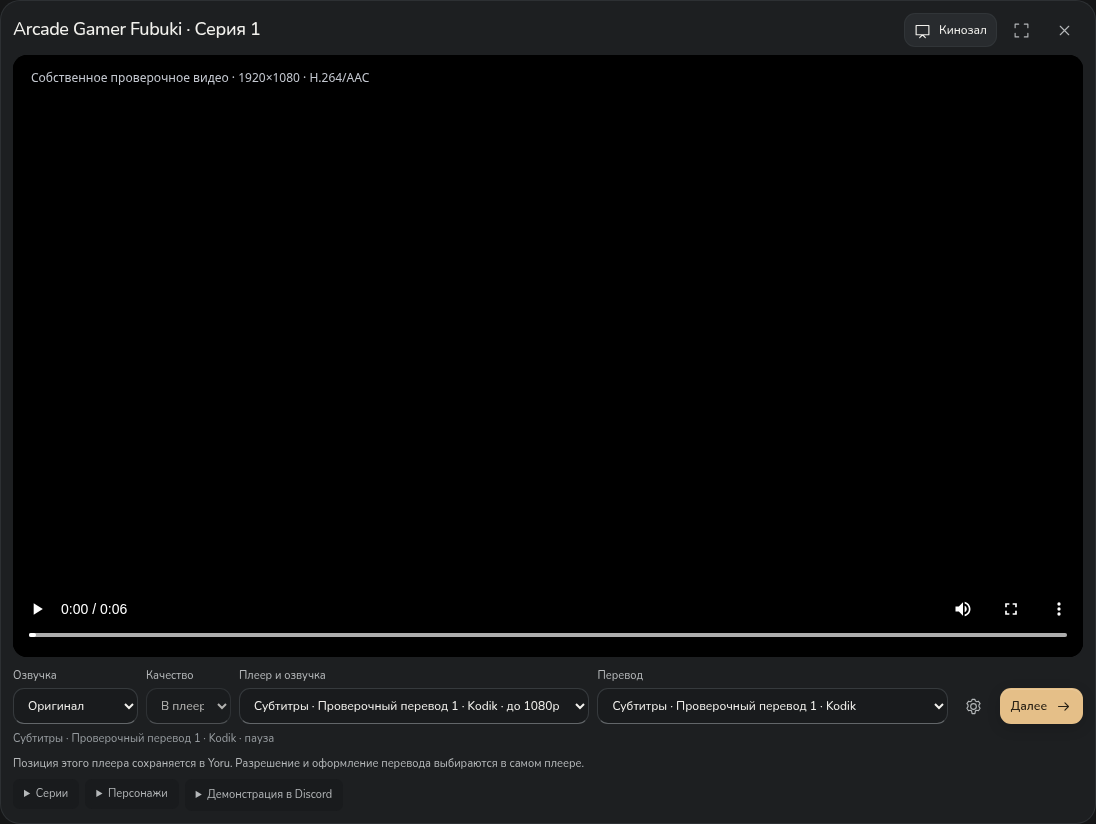
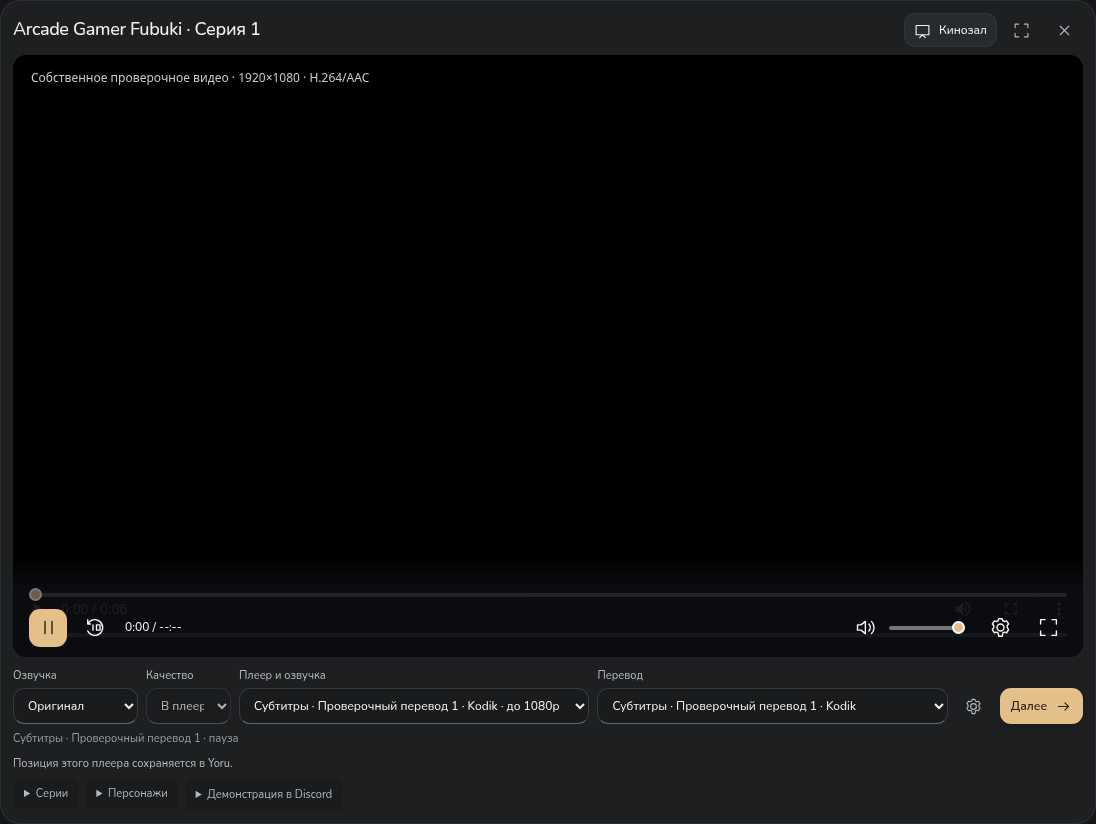
Publish verified Yoru 0.9.4 installer and playback controls gallery [skip ci]

Changed region(s): [[0.0, 0.6978, 0.9617, 0.7888], [0.1861, 0.8799, 0.5274, 0.9405]]

diff --git a/README.md b/README.md
@@ -2,23 +2,33 @@
 
 <img src="public/yoru-icon.png" width="80" height="80" alt="Иконка Yoru">
 
-**Windows 10/11 · x64 · версия 0.9.3**
+**Windows 10/11 · x64 · версия 0.9.4**
 
 Три раздела в одном приложении: **Аниме / Фильмы / Сериалы**. Поиск, жанры, избранное, библиотека, темы и сохранение позиции встроенного просмотра.
 
 Для аниме AniLibria доступен встроенный плеер и автоматический подбор дополнительных озвучек/переводов Yummyani для сопоставленного релиза. Выбранный онлайн-плеер открывается на странице просмотра Yoru. Расширенный каталог Yummyani подгружает следующие страницы при прокрутке и открывает поддерживаемый плеер **внутри Yoru**, с выбором серий, автопереходом и сохранением подтверждённого тайминга. Для фильмов и сериалов доступны каталог метаданных и поиск в **YouTube, Кинопоиске, Rutube, VK Видео** в системном браузере. Это поиск на сервисах: наличие полной версии и региональные ограничения определяет сайт. Подтверждённые прямые файлы Internet Archive можно смотреть внутри приложения с резервными адресами того же файла.
 
-![Оригинал и выбор перевода в Yoru 0.9.3 — собственный тестовый ролик, не живое видео аниме](docs/images/automatic-player.png)
+![Своя панель просмотра Yoru 0.9.4 — собственный тестовый ролик, не живое видео аниме](docs/images/yoru-controls.png)
 
 Новые киносервисы пока **не подтверждены живой проверкой из РФ и других стран**. В этой облачной среде их домены отклоняются прокси; сетевой черновик сохранён и ожидает публикации. Тесты с контролируемыми ответами проверяют приложение, но не заменяют проверку внешнего видео.
 
 ## Установка
 
-**[Скачать установщик Yoru 0.9.3](https://github.com/Duwkaf1/kinoteatr-xivivide/actions/runs/41287024525/artifacts/13076056122)** — около 108 MiB. Извлеки `Yoru-Setup-0.9.3-x64.exe` из ZIP GitHub, закрой прежний Yoru и нажми **«Установить»**. Установщик автономный, на русском, без прав администратора; библиотека и настройки сохраняются. Для загрузки артефакта GitHub нужен вход в аккаунт.
+**[Скачать установщик Yoru 0.9.4](https://github.com/Duwkaf1/kinoteatr-xivivide/actions/runs/41307088205/artifacts/13083668526)** — около 108 MiB. Извлеки `Yoru-Setup-0.9.4-x64.exe` из ZIP GitHub, закрой прежний Yoru и нажми **«Установить»**. Установщик автономный, на русском, без прав администратора; библиотека и настройки сохраняются. Для загрузки артефакта GitHub нужен вход в аккаунт.
 
-[Инструкция](docs/installer.md) · [ZIP без установки](https://github.com/Duwkaf1/kinoteatr-xivivide/actions/runs/41287024525/artifacts/13075833596) · [Успешная Windows-проверка](https://github.com/Duwkaf1/kinoteatr-xivivide/actions/runs/41287024525)
+[Инструкция](docs/installer.md) · [ZIP без установки](https://github.com/Duwkaf1/kinoteatr-xivivide/actions/runs/41307088205/artifacts/13083932627) · [Успешная Windows-проверка](https://github.com/Duwkaf1/kinoteatr-xivivide/actions/runs/41307088205)
 
-## Реклама, оригинал, переводы и персонажи 0.9.3
+## Панель просмотра и персонажи серии 0.9.4
+
+Своя панель Yoru управляет воспроизведением, временем, перемоткой, звуком и полным экраном. У встроенного плеера сайта шестерёнка открывает его настройки качества и перевода; кнопка «Панель Yoru» возвращает управление. В Electron состояние берётся у реального HTML5-видео, в том числе во вложенном iframe без API провайдера. Удалённый плеер не получает Node/IPC, а URL потока и токены не извлекаются.
+
+Зависание не дальше 1,25 секунды до конца после 8 секунд без движения завершает серию. Нужны подтверждённые время и длительность от 30 секунд, а также намерение продолжать просмотр. Ручная пауза блокирует переход; настройка автоследующей серии учитывается. Запоздалые состояния плеера не отменяют нажатие паузы или продолжения. Обычное окончание переключает серию сразу.
+
+«Оригинал» больше не остаётся подписью русского источника после неудачного подбора. Проверяется текущий API Yummyani, второе название и подтверждённые издания того же релиза; поддержаны опубликованные Sibnet и обёртки Yummyani. Адреса не строятся подстановкой одного ID во все сервисы.
+
+У персонажей есть быстрый выбор **«Весь релиз / Эта серия»**. Для TV «Чёрный клевер» (MAL 34572) добавлен отдельный адаптер списка появлений Episode N в Black Clover Wiki. Имена сопоставляются с кастом релиза; ручные отметки подписаны отдельно. Для релизов без подтверждённых появлений предлагается общий каст с явной подписью. Живые ответы Wiki и наличие японских дорожек пока не подтверждены из-за сетевой политики среды. [Подробности и границы проверки](docs/player-chrome-0.9.4.md).
+
+## Озвучка, переводы и реклама
 
 В плеерах включён **офлайн-адблок Ghostery с EasyList/RU AdList/uBlock**: рекламные запросы и всплывающие окна блокируются, IMA/VAST получают локальные совместимые ответы. При запуске не требуется скачивать фильтры. Исходники, ревизии, контрольные суммы и лицензии включены в поставку. [Подробности](docs/player-protection-0.9.3.md) · [Фильтры и лицензии](data/adblock/README.md). Вшитую в сам файл рекламу сетевой блокировщик удалить не может.
 
@@ -28,15 +38,15 @@
 
 [Снимок страницы просмотра](docs/images/automatic-player.png) использует собственный тестовый ролик и контролируемые варианты, не живое видео аниме.
 
-У онлайн-плеера разрешение и оформление субтитров выбираются **в самом плеере**. Yoru показывает «В плеере»; подтверждённое API максимальное разрешение указано в подписи варианта. Встроенные основной/альтернативный движки, прямые видео и оформленные субтитры сохранены. Kodik передаёт подтверждённый тайминг в историю; плеерам без такого интерфейса сохранение времени не приписывается.
+У онлайн-плеера разрешение и оформление субтитров выбираются **в самом плеере**. Yoru показывает «В плеере»; подтверждённое API максимальное разрешение указано в подписи варианта. Встроенные основной/альтернативный движки, прямые видео и оформленные субтитры сохранены. В настольной версии тайминг берётся у реального видео, а Kodik API служит резервом. Если ни видео, ни поддерживаемый API недоступны, управление не объявляется подтверждённым.
 
-Персонажи и фотографии для сопоставленного релиза загружаются из **AniDB автоматически**, без XML и регистрации API-клиента пользователем. Быстрые запросы ждут в очереди. При отказе или изменении разметки AniDB используется **MyAnimeList через Jikan**, затем независимый **AniList**. Проверяются точный MAL ID, каноническое имя и год исходного релиза в индексе. Даты фестивального показа и выпуска могут различаться; это не разрешает подменять спешл телевизионным сезоном. Источник обозначается в интерфейсе; ID персонажей трёх каталогов не смешиваются. Главные роли идут перед второстепенными. Свои имена и заметки сохраняются. Поэпизодное появление каждого персонажа не выдумывается: автоматический список относится к релизу/сезону.
+Персонажи и фотографии для сопоставленного релиза загружаются из **AniDB автоматически**, без XML и регистрации API-клиента пользователем. Быстрые запросы ждут в очереди. При отказе или изменении разметки AniDB используется **MyAnimeList через Jikan**, затем независимый **AniList**. Проверяются точный MAL ID, каноническое имя и год исходного релиза в индексе. Даты фестивального показа и выпуска могут различаться; это не разрешает подменять спешл телевизионным сезоном. Источник обозначается в интерфейсе; ID персонажей трёх каталогов не смешиваются. Главные роли идут перед второстепенными. Свои имена и заметки сохраняются. Общий каст относится к релизу. Режим «Эта серия» использует отдельные подтверждённые появления, каст одноэпизодного релиза либо твои явно подписанные ручные отметки.
 
 ![Автоматически загруженный состав — архив AniDB 128 в контролируемом сценарии, с личной заметкой](docs/images/automatic-cast.png)
 
 Для **«Чёрного Клевера (Спэшл)», AniLibria 5152**, проверен настоящий ответ: только **720p/480p**, 1080p у этого источника нет. Также исправлена отдельная ошибочная связь карточки с другим спин-оффом. У другого плеера 1080p доступно только если оно действительно опубликовано. [Данные проверки](docs/black-clover-0.9.1.json).
 
-**Живая проверка дополнительных озвучек, субтитров и актуальных ответов AniDB/Jikan/AniList ещё не завершена:** действующая политика облачной сети не разрешает эти домены. Сетевой черновик сохранён и требует публикации в настройках среды. Контролируемые тесты проверяют код, а не наличие оригинала/переводов у каждого аниме. [Подробности и ограничения 0.9.3](docs/player-protection-0.9.3.md).
+**Живая проверка дополнительных озвучек, субтитров и актуальных ответов AniDB/Jikan/AniList ещё не завершена:** действующая политика облачной сети не разрешает эти домены. Сетевой черновик сохранён и требует публикации в настройках среды. Контролируемые тесты проверяют код, а не наличие оригинала/переводов у каждого аниме. [Подробности и ограничения 0.9.4](docs/player-chrome-0.9.4.md).
 
 ## Фильмы и сериалы
 
@@ -123,7 +133,7 @@
 - **110 unit-тестов**, production build и настоящий Linux Electron прошли. Проверяются фильтры, SHA-256 всех исходников/движка, SDK/VAST-замены, API/субтитры/медиассылки, точный каст и объединение подтверждённых изданий одного спешла.
 - **121 браузерный сценарий прошёл за 6,2 минуты**. Семь новых сценариев проверяют активный подбор оригинала в AniLibria, поиск субтитров, отсутствие/повтор, быстрый возврат к русскому без позднего переключения, каст AniList с портретом/ролями/заметкой после перезапуска, настоящее окончание серии и одноэпизодного спешла.
 - В настоящем Electron рекламные URL не доходят до подставленного HTTPS-обработчика. После локальных IMA/VAST-ответов декодируются собственные H.264/AAC 1080p и субтитры, скрывается рекламный блок; окна/Node/bridge недоступны странице. Это контролируемая проверка приложения, не живая реклама конкретного аниме.
-- **[Windows CI успешен](https://github.com/Duwkaf1/kinoteatr-xivivide/actions/runs/41287024525)**: unit/build, реальный Electron с адблоком, упаковка, установка и запуск установленного EXE, обновление, обычное/полное удаление, отмена, сохранность посторонних файлов/цели junction и кириллический путь. Фильтры сохраняют одинаковые байты/контрольные суммы при checkout на Windows.
+- **[Windows CI успешен](https://github.com/Duwkaf1/kinoteatr-xivivide/actions/runs/41307088205)**: unit/build, реальный Electron с адблоком, упаковка, установка и запуск установленного EXE, обновление, обычное/полное удаление, отмена, сохранность посторонних файлов/цели junction и кириллический путь. Фильтры сохраняют одинаковые байты/контрольные суммы при checkout на Windows.
 
[1 lines of base64/hex data omitted]
 

diff --git a/docs/installer.md b/docs/installer.md
@@ -1,6 +1,6 @@
 # Установка Yoru одним файлом
 
-Для Windows 10/11 x64: **[скачать `Yoru-Setup-0.9.3-x64.exe`](https://github.com/Duwkaf1/kinoteatr-xivivide/actions/runs/41287024525/artifacts/13076056122)** — примерно 108 MiB. Это автономный установщик: интернет для установки, Node.js и права администратора не нужны. Для просмотра онлайн интернет нужен. После запуска открывается каталог AniLibria/AniLiberty: поиск, постеры, серии и воспроизведение загружаются автоматически. Вставлять ссылки не нужно. Поле «Где искать» переключает на расширенный каталог Yummyani; поддерживаемый плеер открывается внутри Yoru, с сериями, автопереходом и сохранением подтверждённого времени. Следующие страницы каталога загружаются при прокрутке.
+Для Windows 10/11 x64: **[скачать `Yoru-Setup-0.9.4-x64.exe`](https://github.com/Duwkaf1/kinoteatr-xivivide/actions/runs/41307088205/artifacts/13083668526)** — примерно 108 MiB. Это автономный установщик: интернет для установки, Node.js и права администратора не нужны. Для просмотра онлайн интернет нужен. После запуска открывается каталог AniLibria/AniLiberty: поиск, постеры, серии и воспроизведение загружаются автоматически. Вставлять ссылки не нужно. Поле «Где искать» переключает на расширенный каталог Yummyani; поддерживаемый плеер открывается внутри Yoru, с сериями, автопереходом и сохранением подтверждённого времени. Следующие страницы каталога загружаются при прокрутке.
 
 1. Закрой прежнюю версию Yoru, особенно если запускал её из ZIP. Открой установщик и нажми **«Установить»**. При желании отключи ярлык на рабочем столе.
 2. Нажми **«Готово»**, чтобы открыть Yoru. Позже приложение доступно в меню «Пуск».
@@ -9,11 +9,13 @@
 
 Для уменьшения размера используется сжатие LZMA. Из поставки убраны неиспользуемые языковые пакеты интерфейса Chromium: оставлены русский и английский для резервного варианта. Это не ограничивает язык звука или субтитров, кодеки и шрифты сохранены. Движок Electron остаётся внутри, поэтому установщик не может весить всего несколько мегабайт.
 
-В 0.9.3 по умолчанию работает офлайн-адблок Ghostery с EasyList/RU AdList/uBlock. Рекламные запросы и новые окна блокируются; IMA/VAST получают совместимые локальные ответы. Исходные списки, контрольные суммы и лицензии включены. Вшитая в сам видеофайл реклама не удаляется.
+В 0.9.4 добавлены своя панель просмотра, управление реальным вложенным видео и восстановление при зависании в конце серии с учётом ручной паузы и настройки автоперехода. «Эта серия» в персонажах использует отдельные появления для поддержанного релиза; общий каст подписан отдельно. Подробнее — [отчёт 0.9.4](player-chrome-0.9.4.md).
+
+По умолчанию работает офлайн-адблок Ghostery с EasyList/RU AdList/uBlock. Рекламные запросы и новые окна блокируются; IMA/VAST получают совместимые локальные ответы. Исходные списки, контрольные суммы и лицензии включены. Вшитая в сам видеофайл реклама не удаляется.
 
 Выбор «Оригинал» в AniLibria запускает подбор другого плеера той же серии. В поле «Перевод» есть «Найти оригинал с субтитрами». При отсутствии вариантов доступен повтор; ошибочного продолжения на русском под видом оригинала нет. Каст получает независимый резерв AniList после AniDB/Jikan. Сохранены серии/автопереход/тайминг и загрузка каталога дальше 24 карточек. Одноэпизодный спешл не подменяется 170-серийным сериалом.
 
-Сохранены фильмы/сериалы, поиск в видеосервисах через браузер, свободные фильмы Archive, оба встроенных движка, темы, полное удаление и резервные постеры. Наличие оригинала, нескольких переводов и 1080p у каждого релиза не гарантируется. Живые AniDB/Jikan/AniList/Yummyani пока не проверены из-за ограничений облачной сети; сетевой черновик требует публикации. [Возможности и ограничения](player-protection-0.9.3.md).
+Сохранены фильмы/сериалы, поиск в видеосервисах через браузер, свободные фильмы Archive, оба встроенных движка, темы, полное удаление и резервные постеры. Наличие оригинала, нескольких переводов и 1080p у каждого релиза не гарантируется. Живые AniDB/Jikan/AniList/Yummyani пока не проверены из-за ограничений облачной сети; сетевой черновик требует публикации. [Возможности и ограничения](player-chrome-0.9.4.md).
 
 Кнопка **Настройки → Дополнительно → Удалить приложение полностью** после системного подтверждения удаляет приложение и его профиль. По умолчанию в подтверждении выбрана «Отмена». При ошибке запуска приложение остаётся открытым. ZIP без установщика и запуск с отдельным профилем этим способом не удаляются. Деинсталлятор не переходит по ссылкам внутри профиля к посторонним файлам.
 
@@ -32,7 +34,7 @@ npm ci
 npm run installer:win
 ```
 
-Результат — `artifacts/Yoru-Setup-0.9.3-x64.exe` и соседний файл SHA-256. Уже упакованное приложение можно превратить в установщик командой `node scripts/build-installer.js`. Сохраняется и прежняя ZIP-сборка для запуска без установки.
+Результат — `artifacts/Yoru-Setup-0.9.4-x64.exe` и соседний файл SHA-256. Уже упакованное приложение можно превратить в установщик командой `node scripts/build-installer.js`. Сохраняется и прежняя ZIP-сборка для запуска без установки.
 
 GitHub Actions собирает отдельный артефакт **Yoru-installer-x64** с установщиком и контрольной суммой. GitHub скачивает артефакты в ZIP-обёртке: извлеки из неё установочный EXE один раз. Самому установщику дополнительные файлы не нужны. Артефакты имеют ограниченный срок хранения.
 
@@ -40,8 +42,8 @@ GitHub Actions собирает отдельный артефакт **Yoru-insta
 
 Windows CI проверяет видимые русские кнопки установки, установку без запроса повышения прав, ярлыки и регистрацию версии; повторную установку; запуск **реального установленного `Yoru.exe`** с проверками тем, видео, звука и субтитров; защиту открытого приложения от перезаписи; удаление с сохранением профиля и посторонних файлов; установку в путь с пробелами и кириллицей. Проверка предназначена для отдельного CI-окружения, а не личного компьютера.
 
-[Проверка 0.9.3 на Windows — успешно](https://github.com/Duwkaf1/kinoteatr-xivivide/actions/runs/41287024525), исходники `13b4d39`. Установка, native-проверка приложения, повторная установка, обычное удаление и полное удаление из настроек прошли. Отмена сохранила приложение; подтверждение удалило профиль, ярлыки и регистрацию. Посторонние файлы и цель junction внутри профиля сохранились. Оба артефакта загружены.
+[Проверка 0.9.4 на Windows — успешно](https://github.com/Duwkaf1/kinoteatr-xivivide/actions/runs/41307088205), исходники `a8cb0e7`. Установка, native-проверка приложения, повторная установка, обычное удаление и полное удаление из настроек прошли. Отмена сохранила приложение; подтверждение удалило профиль, ярлыки и регистрацию. Посторонние файлы и цель junction внутри профиля сохранились. Оба артефакта загружены.
 
[2 lines of base64/hex data omitted]
 
 Результат следующих прогонов смотри в [Windows Actions](https://github.com/Duwkaf1/kinoteatr-xivivide/actions/workflows/windows.yml). Это автоматическая проверка на виртуальной Windows, не проверка SmartScreen на каждом компьютере.

diff --git a/docs/validation.md b/docs/validation.md
@@ -1,5 +1,15 @@
 # Проверка перед отправкой на GitHub
 
+## Версия 0.9.4 — своя панель, реальное видео и персонажи серии
+
+Код `a8cb0e718ea8a48f21e638977cb31575f7f1cc4c`. **115 unit-тестов**, production build, настоящий Linux Electron и **129 браузерных сценариев** полным прогоном (6,5 минуты) прошли. Перед финальным полным прогоном дополнительно прошли 29 связанных сценариев. После него код приложения не менялся. Галерея: **60 PNG**, из них 54 пересозданы на финальном коде; шесть живых снимков 0.8.2 сохранены отдельно.
+
+Проверены собственная панель, SVG и клавиатурная перемотка, звук, компактный размер; выбор/повтор японской дорожки без ложной подписи русского видео; отсутствие перехода от позднего ответа предыдущего выбора; 8-секундное зависание в последнюю секунду, ручная пауза, отключённый автопереход, конец одноэпизодного спешла, настоящий 30-секундный резерв в обоих движках. Запоздалые paused/playing-состояния не отменяют команды пользователя. В реальном Electron собственное H.264/AAC 1080p играет во вложенном iframe другого домена без API провайдера; работают play/pause/seek/mute и переход по фактическому ended, а Node/IPC у удалённого видео отсутствуют.
+
+Появления персонажей загружаются отдельной операцией, сохраняются по номеру серии и сопоставляются с именами/алиасами каста. Проверены границы раздела HTML, чужой релиз/эпизод/URL, недоступный источник, ручные отметки и сохранение после перезапуска. Fandom в тестах контролируемый: это не живая проверка разметки или фактических появлений. Наличие японской дорожки, переводов и доступ из РФ/других стран пока не подтверждены — действующая политика облака revision 6 блокирует домены; сохранённый черновик revision 23 требует публикации. Старые адреса Trout/Brogiro дали 503/404, их ID не подставляется в ссылки других аниме. [Отчёт и ограничения](player-chrome-0.9.4.md).
+
[1 lines of base64/hex data omitted]
+
 ## Версия 0.9.3 — офлайн-адблок, подбор оригинала и независимый каст
 
 Код `13b4d396c31b937c746152a0e4902bfd403d44af`. **110 unit-тестов**, production build, полный Linux Electron и **121 браузерный сценарий** (6,2 минуты) прошли. Семь новых браузерных сценариев покрывают оригинал/субтитры, отсутствие/повтор, быстрое переключение, AniList/портреты/роли/заметки, настоящее окончание серии и одноэпизодный спешл.

diff --git a/docs/images/README.md b/docs/images/README.md
@@ -1,8 +1,14 @@
 # Yoru — скриншоты интерфейса
 
-Галерея содержит **58 PNG**. 52 воспроизводимых снимка пересозданы для 0.9.3 полным прогоном браузерных сценариев. Ещё шесть — живой каталог, фильтры, воспроизведение и два проверенных резервных постера. Для резервных постеров отказ основного CDN намеренно вызван тестом; метаданные и альтернативные изображения настоящие. [Результат](../live-posters-0.8.2.json).
+Галерея содержит **60 PNG**. 54 воспроизводимых снимка пересозданы для 0.9.4 полным прогоном браузерных сценариев. Ещё шесть — живой каталог, фильтры, воспроизведение и два проверенных резервных постера. Для резервных постеров отказ основного CDN намеренно вызван тестом; метаданные и альтернативные изображения настоящие. [Результат](../live-posters-0.8.2.json).
 
-Текущая версия 0.9.3 дополнительно проверяет офлайн-адблок, активный подбор оригинала/субтитров и резервный каст AniList. Снимки просмотра используют собственное видео и контролируемые API. [Проверки и ограничения](../player-protection-0.9.3.md).
+Текущая версия 0.9.4 дополнительно проверяет свою панель Yoru, вложенное HTML5-видео, зависание в конце серии, честный выбор оригинала и появления персонажей по сериям. Снимки просмотра используют собственное видео и контролируемые API. [Проверки и ограничения](../player-chrome-0.9.4.md).
+
+## Панель Yoru и отдельная серия 0.9.4
+
+![Своя панель Yoru: настоящее собственное видео и контролируемый каталог](yoru-controls.png)
+
+[Персонажи выбранной серии](episode-appearances.png) — контролируемые имена и HTML ответа Wiki, проверка сопоставления и сохранения. Этот снимок не подтверждает фактический список первой серии или живой доступ к Fandom. Портреты здесь намеренно не подставляются из чужого релиза.
 
 ## Каталог Yummyani в Yoru 0.9.2
 

diff --git a/docs/player-chrome-0.9.4.md b/docs/player-chrome-0.9.4.md
@@ -19,3 +19,9 @@
 ## Проверки
 
 Итоги полного прогона и Windows-сборки публикуются в [validation.md](validation.md). В отдельной проверке настоящего Electron воспроизводится H.264/AAC 1080p во вложенном iframe другого домена без API провайдера: собственная панель управляет play/pause/seek/mute, а реальный ended открывает следующую серию. Проверены sandbox/context isolation и отсутствие Node/IPC у удалённого видео.
+
+## Итог выпуска
+
+Код приложения: `a8cb0e718ea8a48f21e638977cb31575f7f1cc4c`. 115 unit-тестов, production build, настоящий Linux Electron и полный прогон 129 браузерных сценариев (6,5 минуты) прошли; отдельно на финальном коде пройдены 29 связанных сценариев. После полного прогона код приложения не менялся.
+
[1 lines of base64/hex data omitted]
